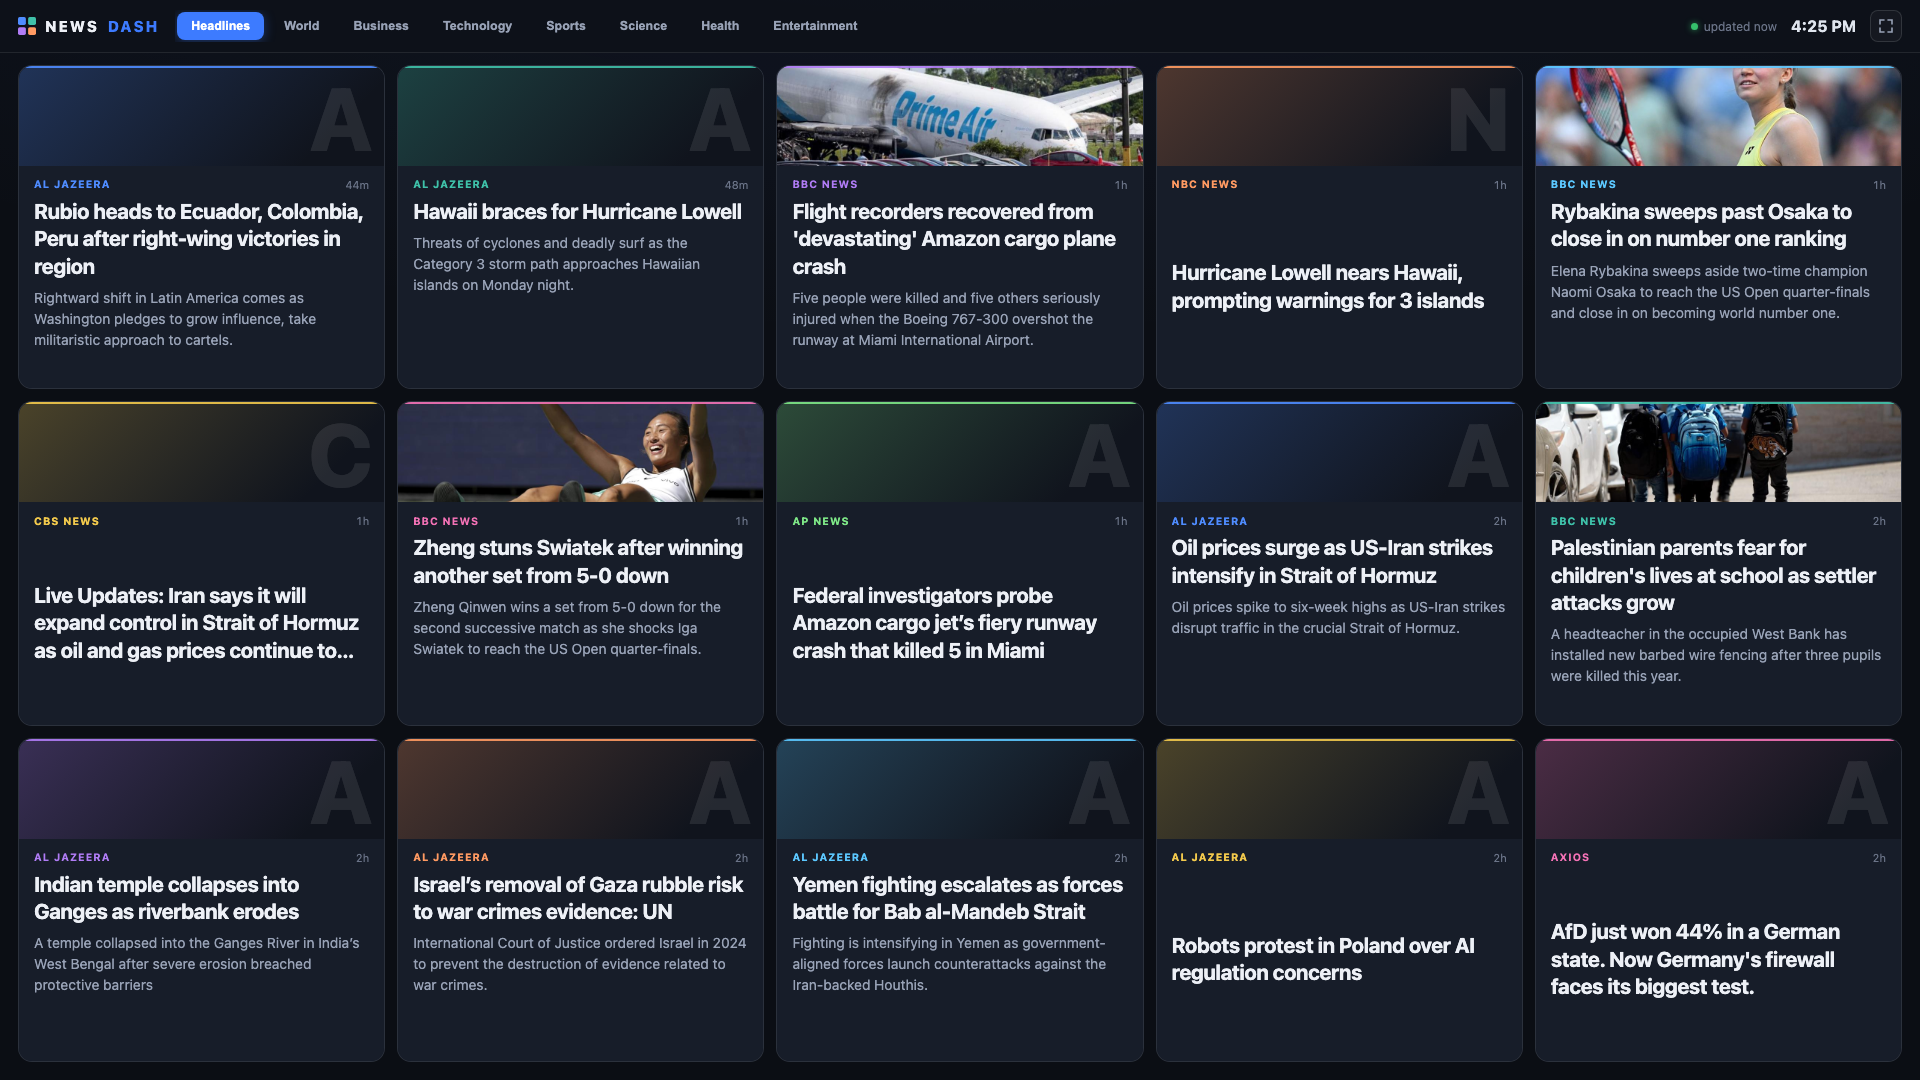
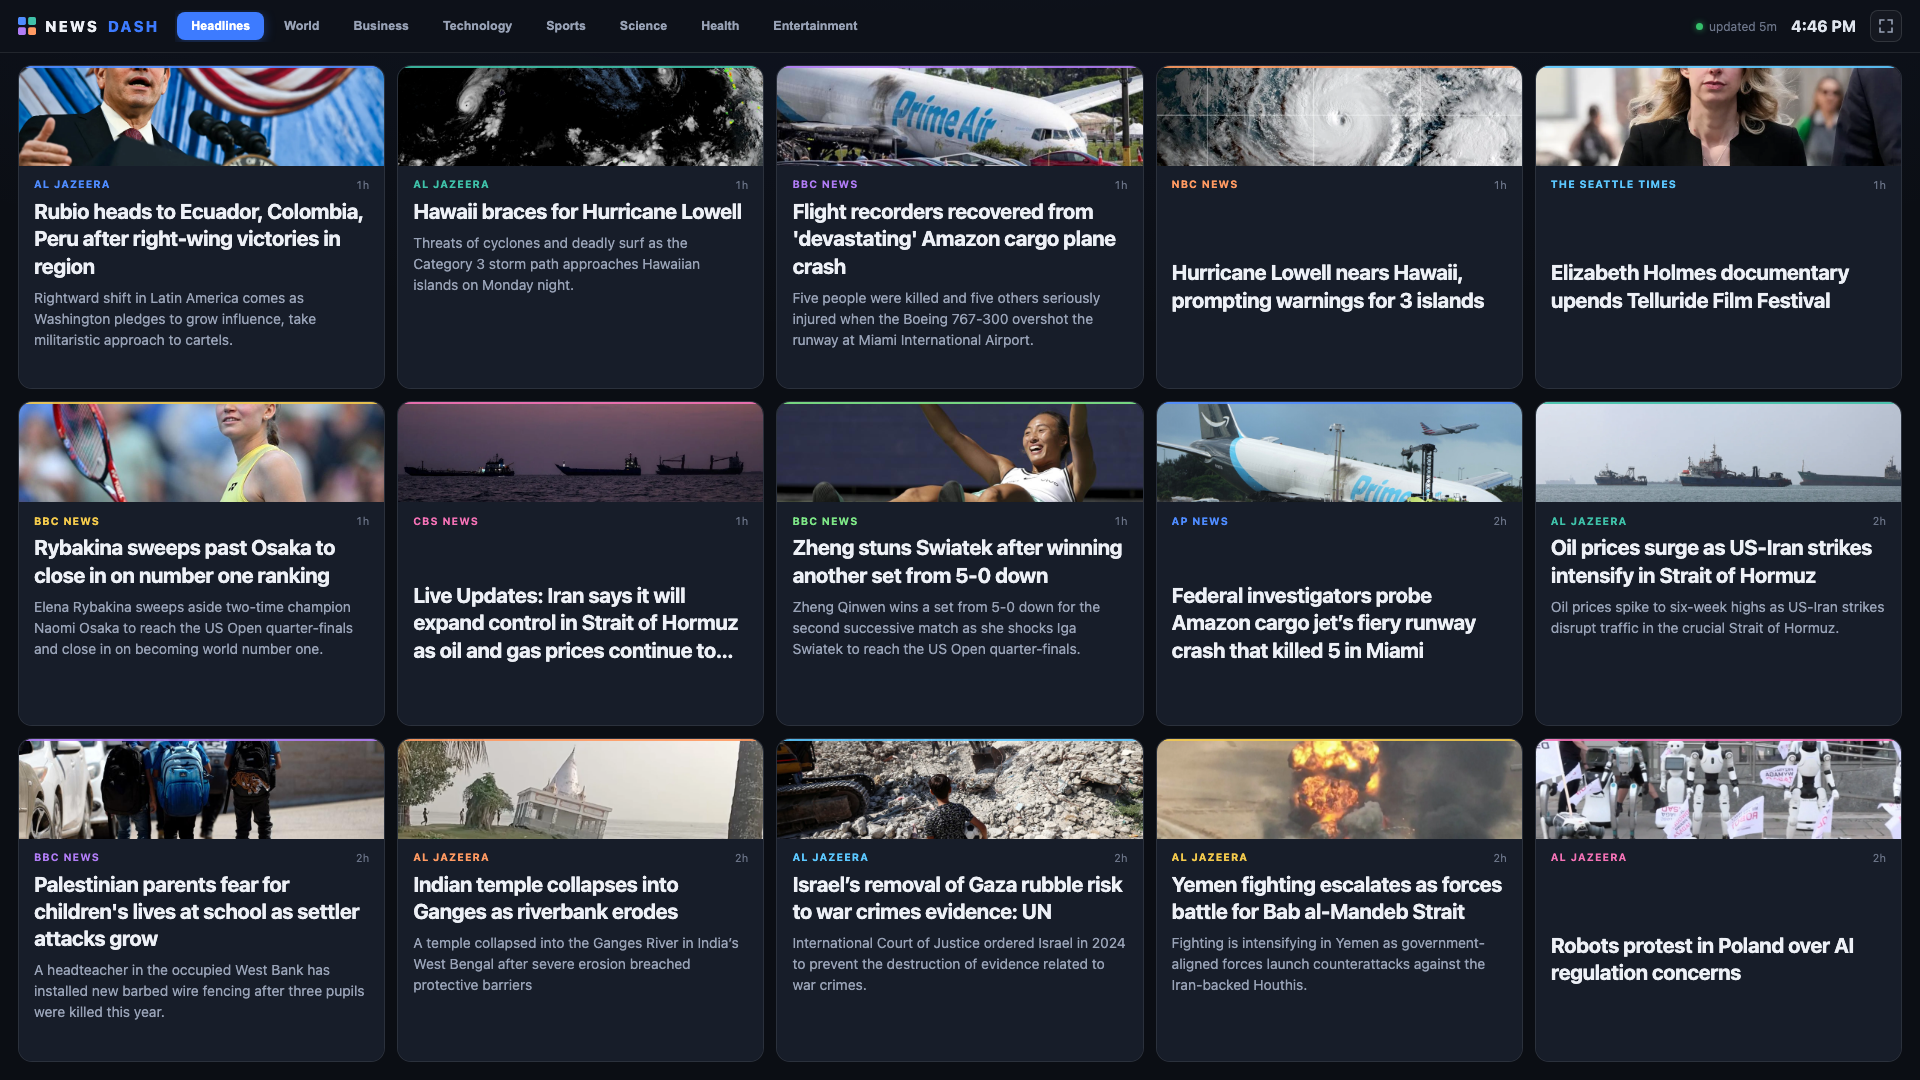
Fix missing photos: og:image scraping fallback + Google News URL decoding (85-91% coverage)

diff --git a/lib/news.js b/lib/news.js
@@ -2,6 +2,7 @@
 // scripts/generate-data.js (static build for GitHub Pages).
 
 import Parser from 'rss-parser';
+import { GoogleDecoder } from 'google-news-url-decoder';
 import { CATEGORIES } from '../feeds.js';
 
 export { CATEGORIES };
@@ -11,6 +12,7 @@ const parser = new Parser({
     item: [
       ['media:thumbnail', 'mediaThumbnails', { keepArray: true }],
       ['media:content', 'mediaContents', { keepArray: true }],
+      ['media:group', 'mediaGroups', { keepArray: true }],
       ['content:encoded', 'contentEncoded']
     ]
   },
@@ -74,14 +76,28 @@ function attrNum(value) {
   return Number.isFinite(n) ? n : 0;
 }
 
+/** Mixed content (http:// images on an https:// page) is blocked by browsers. */
+function httpsify(url) {
+  return url.startsWith('http://') ? 'https://' + url.slice(7) : url;
+}
+
 function collectMedia(node, out) {
   if (!node) return;
   for (const entry of Array.isArray(node) ? node : [node]) {
     const attrs = (entry && entry.$) || entry || {};
     const url = attrs.url || attrs.href;
     if (url && /^https?:\/\//i.test(url)) {
-      out.push({ url, width: attrNum(attrs.width), type: attrs.type || attrs.medium || '' });
+      out.push({ url: httpsify(url), width: attrNum(attrs.width), type: attrs.type || attrs.medium || '' });
     }
+  }
+}
+
+function collectGroupMedia(groups, out) {
+  if (!groups) return;
+  for (const group of Array.isArray(groups) ? groups : [groups]) {
+    if (!group) continue;
+    collectMedia(group['media:thumbnail'] || group.mediaThumbnail, out);
+    collectMedia(group['media:content'], out);
   }
 }
 
@@ -98,9 +114,10 @@ function extractImage(item) {
   if (item.enclosure?.url) collectMedia([item.enclosure], candidates);
   collectMedia(item.mediaThumbnails, candidates);
   collectMedia(item.mediaContents, candidates);
+  collectGroupMedia(item.mediaGroups, candidates);
   const html = item.contentEncoded || item.content || item.description || '';
   const imgMatch = /<img[^>]+src=["']?(https?:\/\/[^"'\s>]+)/i.exec(html);
-  if (imgMatch) candidates.push({ url: imgMatch[1], width: 0, type: '' });
+  if (imgMatch) candidates.push({ url: httpsify(imgMatch[1]), width: 0, type: '' });
 
   const images = candidates.filter(
     (c) =>
@@ -173,9 +190,134 @@ function normalizeItem(item, feed) {
   };
 }
 
+// ---------------------------------------------------------------------------
+// og:image scraping — most RSS feeds carry no photo, but almost every article
+// page declares one for social sharing. Scrape it as a fallback.
+// ---------------------------------------------------------------------------
+
+const SCRAPE_UA =
+  'Mozilla/5.0 (Macintosh; Intel Mac OS X 10_15_7) AppleWebKit/537.36 (KHTML, like Gecko) Chrome/126.0.0.0 Safari/537.36';
+
+// link -> { url: string|null, at: number }; negative results expire so sites
+// that add photos later get picked up on a future refresh.
+const IMAGE_CACHE = new Map();
+const NEGATIVE_TTL_MS = 6 * 60 * 60 * 1000;
+
+// Google News links point at a JS-redirect gateway that hides og:image from
+// server-side fetchers — resolve them back to the real publisher URL first.
+const googleDecoder = new GoogleDecoder();
+const GOOGLE_NEWS_HOST = /(^|\.)news\.google\.com$/i;
+
+async function resolveArticleUrl(link) {
+  let hostname;
+  try {
+    hostname = new URL(link).hostname;
+  } catch {
+    return null;
+  }
+  if (!GOOGLE_NEWS_HOST.test(hostname)) return link;
+  try {
+    const out = await googleDecoder.decode(link);
+    if (out?.status && out.decoded_url) return out.decoded_url;
+  } catch {
+    /* fall through */
+  }
+  return null;
+}
+
+const META_IMAGE_RE =
+  /<meta[^>]*(?:property|name)=["'](?:og:image(?::secure_url)?|twitter:image(?::src)?)["'][^>]*>/gi;
+const CONTENT_RE = /content=["']([^"']+)["']/i;
+
+function extractMetaImage(html, baseUrl) {
+  for (const tag of html.match(META_IMAGE_RE) || []) {
+    const content = CONTENT_RE.exec(tag)?.[1];
+    if (!content) continue;
+    let url = decodeEntities(content.trim());
+    try {
+      url = new URL(url, baseUrl).href; // resolves relative og:image paths
+    } catch {
+      continue;
+    }
+    if (!/^https:\/\//i.test(url)) continue;
+    if (/\.(svg|gif)([?#]|$)/i.test(url)) continue;
+    return url;
+  }
+  return null;
+}
+
+async function scrapeOgImage(link) {
+  const cached = IMAGE_CACHE.get(link);
+  if (cached) {
+    if (cached.url || Date.now() - cached.at < NEGATIVE_TTL_MS) return cached.url;
+  }
+
+  const articleUrl = await resolveArticleUrl(link);
+  let url = null;
+  if (articleUrl) {
+    const controller = new AbortController();
+    const timer = setTimeout(() => controller.abort(), 7000);
+    try {
+      const res = await fetch(articleUrl, {
+        signal: controller.signal,
+        redirect: 'follow',
+        headers: { 'User-Agent': SCRAPE_UA, Accept: 'text/html,application/xhtml+xml,*/*' }
+      });
+      const contentType = res.headers.get('content-type') || '';
+      if (res.ok && contentType.includes('html')) {
+        // og:image lives in <head>; no need to download the whole page
+        const reader = res.body.getReader();
+        const chunks = [];
+        let size = 0;
+        while (size < 150_000) {
+          const { done, value } = await reader.read();
+          if (done) break;
+          chunks.push(value);
+          size += value.length;
+        }
+        await reader.cancel().catch(() => {});
+        const head = Buffer.concat(chunks).toString('utf8');
+        url = extractMetaImage(head, res.url || articleUrl);
+      }
+    } catch {
+      /* timeout, 403, redirect loop — leave null */
+    } finally {
+      clearTimeout(timer);
+    }
+  }
+
+  IMAGE_CACHE.set(link, { url, at: Date.now() });
+  return url;
+}
+
+async function mapLimit(items, limit, fn) {
+  let next = 0;
+  const workers = Array.from({ length: Math.min(limit, items.length) }, async () => {
+    while (next < items.length) {
+      const index = next++;
+      await fn(items[index], index);
+    }
+  });
+  await Promise.all(workers);
+}
+
+/** Fill in missing item photos by scraping the article pages. */
+export async function enrichImages(items, { limit = 150, budgetMs = 30_000, concurrency = 10 } = {}) {
+  const deadline = Date.now() + budgetMs;
+  const targets = items.filter((item) => !item.image && item.link).slice(0, limit);
+  if (!targets.length) return items;
+
+  await mapLimit(targets, concurrency, async (item) => {
+    if (Date.now() > deadline) return;
+    const url = await scrapeOgImage(item.link);
+    if (url) item.image = url;
+  });
+  return items;
+}
+
 /** Fetch every feed in a category, merge, dedupe and sort. Never throws for
  *  a single dead feed — throws only if all feeds fail. */
-export async function fetchCategory(key) {
+export async function fetchCategory(key, enrichOpts) {
   const { feeds } = CATEGORIES[key];
   const results = await Promise.allSettled(
     feeds.map((feed) =>
@@ -211,7 +353,10 @@ export async function fetchCategory(key) {
 
   if (ok === 0) throw new Error(`all feeds failed for category "${key}"`);
 
-  return [...byTitle.values()]
+  const items = [...byTitle.values()]
     .sort((a, b) => b.publishedAt - a.publishedAt)
     .slice(0, 150);
+
+  await enrichImages(items, enrichOpts);
+  return items;
 }

diff --git a/scripts/generate-data.js b/scripts/generate-data.js
@@ -19,7 +19,7 @@ let ok = 0;
 
 for (const key of Object.keys(CATEGORIES)) {
   try {
-    const items = await fetchCategory(key);
+    const items = await fetchCategory(key, { budgetMs: 60_000, concurrency: 10 });
     await fs.writeFile(
       path.join(dist, 'data', `${key}.json`),
       JSON.stringify({ category: key, fetchedAt: Date.now(), items })

diff --git a/README.md b/README.md
@@ -59,6 +59,12 @@ dist/data/<category>.json  ──── both served to ────┐
                        browser polls every 5 min (API first, static fallback)
 ```
 
+Photo pipeline: most RSS feeds ship no image, so each story falls back to
+scraping its page's `og:image` — Google News gateway links are resolved back
+to the real publisher URL first (via `google-news-url-decoder`). Coverage lands
+around 85–91%; publishers that block scrapers (WSJ, Reuters…) show a styled
+source monogram instead.
+
 - `server.js` — Express server, RSS aggregation, stale-while-revalidate cache
 - `lib/news.js` — shared feed fetching/normalizing used by server + static build
 - `feeds.js` — the category → feed registry (edit this to add/remove sources)
